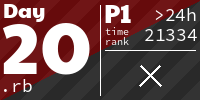
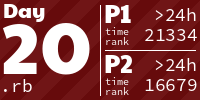
Solve 2020-20 part 2

diff --git a/aoc/y2020/d20.rb b/aoc/y2020/d20.rb
@@ -5,21 +5,79 @@ module AoC
   module Y2020
     class D20 < Solution
 
+      #  01234567890123456789
+      # "                  # "
+      # "#    ##    ##    ###"
+      # " #  #  #  #  #  #   "
+      MONSTER = [
+        Vector[19, 1], # put the two possibly out-of-bounds locations first
+        Vector[16, 2],
+        Vector[18, 0],
+        Vector[0, 1],
+        Vector[5, 1],
+        Vector[6, 1],
+        Vector[11, 1],
+        Vector[12, 1],
+        Vector[17, 1],
+        Vector[18, 1],
+        Vector[1, 2],
+        Vector[4, 2],
+        Vector[7, 2],
+        Vector[10, 2],
+        Vector[13, 2],
+      ].freeze
+
       def part1
         input = get_input
         edges = parse_edges(input)
-        corner_pieces = find_corners(input)
+        corner_pieces = find_corners(edges)
         corner_pieces.uniq.inject(&:*)
       end
 
       def part2
         input = get_input
         edges = parse_edges(input)
-        top_left = find_corners(edges).first # assign any corner as top left
+        top_left_id = find_corners(edges).first # assign any corner as top left
+        top_left = input[top_left_id]
+        top_left = top_left.flip_vertical
+
+        # rotate the top left corner until its unconnected edges are at the top left
+        top = correct_edge(top_left.row(0))
+        top_unconnected = edges[top].size < 2
+        left = correct_edge(top_left.column(0))
+        left_unconnected = edges[left].size < 2
+        top_left = if top_unconnected && left_unconnected
+          top_left
+        elsif top_unconnected
+          top_left.rot90_ccw
+        elsif left_unconnected
+          top_left.rot90_cw
+        else
+          top_left.rot180
+        end
+
+        picture = Grid2d.new(fill_picture(top_left, top_left_id, input, edges))
+        puts picture.map(&:join).join("\n") if @grid_test
+
+        monster_tiles = MONSTER.size * begin
+          r = monster_count(picture)
+          r = monster_count(picture.rot90_cw) if r == 0
+          r = monster_count(picture.rot180) if r == 0
+          r = monster_count(picture.rot90_ccw) if r == 0
+          picture = picture.flip_horizontal if r == 0
+          r = monster_count(picture) if r == 0
+          r = monster_count(picture.rot90_cw) if r == 0
+          r = monster_count(picture.rot180) if r == 0
+          r = monster_count(picture.rot90_ccw) if r == 0
+          r
+        end
+
+        picture.grid.flatten.count('#') - monster_tiles
       end
 
       def initialize(test: false, test_input: nil)
         @test = test
+        @grid_test = false
         @test_input = test_input
       end
 
@@ -29,12 +87,8 @@ module AoC
         super.split("\n\n").to_h do |tile|
           lines = tile.split("\n")
           tileno = lines[0].ints[0]
-          matrix = lines[1..].map do |line|
-            line.chars.map do |char|
-              char == '#' ? 1 : 0
-            end
-          end
-          [tileno, Matrix[*matrix]]
+          matrix = Grid2d.new(lines[1..].map(&:chars))
+          [tileno, matrix]
         end
       end
 
@@ -42,7 +96,8 @@ module AoC
         edges = {}
 
         input.each do |tileno, tile|
-          [tile.row(0), tile.column(0), tile.row(tile.row_count - 1), tile.column(tile.column_count - 1)].each_with_index do |edge, index|
+          # top, left, bottom, right
+          [tile.row(0), tile.column(0), tile.row(tile.height - 1), tile.column(tile.width - 1)].each_with_index do |edge, index|
             edge = edge.to_a
             if (edge <=> edge.reverse) == -1
               edge = edge.reverse
@@ -63,6 +118,104 @@ module AoC
         end.compact.flatten
 
         edge_pieces.filter { |p| edge_pieces.count(p) > 1 }
+      end
+
+      def fill_picture(top_left, top_left_id, tiles, edges)
+        picture = fill_picture_row(top_left, top_left_id, tiles, edges)
+
+        bottom_id = top_left_id
+        bottom_edge = top_left.row(top_left.height - 1)
+        c_bottom_edge = correct_edge(bottom_edge)
+        next_tile_id, next_rotation = edges[c_bottom_edge].filter do |tile, orientation|
+          tile != bottom_id
+        end.first
+
+        while next_tile_id
+          next_tile = tiles[next_tile_id]
+
+          next_tile = case next_rotation.abs
+          when 0 # top
+            next_tile
+          when 1 # left
+            next_tile.rot90_cw
+          when 2 # bottom
+            next_tile.rot180
+          when 3 # right
+            next_tile.rot90_ccw
+          end
+
+          next_tile = next_tile.flip_horizontal if next_tile.row(0) != bottom_edge
+          raise unless next_tile.row(0) == bottom_edge
+
+          picture_row = fill_picture_row(next_tile, next_tile_id, tiles, edges)
+          picture << [] if @grid_test
+          picture.append(*picture_row)
+
+          bottom_id = next_tile_id
+          bottom_edge = next_tile.row(next_tile.height - 1)
+          c_bottom_edge = correct_edge(bottom_edge)
+          next_tile_id, next_rotation = edges[c_bottom_edge].filter do |tile, orientation|
+            tile != bottom_id
+          end.first
+        end
+
+        picture
+      end
+
+
+      def fill_picture_row(left_tile, left_tile_id, tiles, edges)
+        picture = left_tile[1...-1].map { _1[1...-1] }
+
+        right_id = left_tile_id
+        right_edge = left_tile.column(left_tile.width - 1)
+        c_right_edge = correct_edge(right_edge)
+        next_tile_id, next_rotation = edges[c_right_edge].filter do |tile, orientation|
+          tile != right_id
+        end.first
+
+        while next_tile_id
+          next_tile = tiles[next_tile_id]
+
+          next_tile = case next_rotation.abs
+          when 0 # top
+            next_tile.rot90_ccw
+          when 1 # left
+            next_tile
+          when 2 # bottom
+            next_tile.rot90_cw
+          when 3 # right
+            next_tile.rot180
+          end
+
+          next_tile = next_tile.flip_vertical if next_tile.column(0) != right_edge
+          raise unless next_tile.column(0) == right_edge
+
+          picture.zip(next_tile[1...-1]).each do |picture_row, tile_row|
+            picture_row << ' ' if @grid_test
+            picture_row.append(*tile_row[1...-1])
+          end
+
+          right_id = next_tile_id
+          right_edge = next_tile.column(next_tile.width - 1)
+          c_right_edge = correct_edge(right_edge)
+          next_tile_id, next_rotation = edges[c_right_edge].filter do |tile, orientation|
+            tile != right_id
+          end.first
+        end
+
+        picture
+      end
+
+      memoize def correct_edge(edge)
+        (edge <=> edge.reverse) == -1 ? edge.reverse : edge
+      end
+
+      def monster_count(picture)
+        picture.with_coords.count do |_item, coord|
+          MONSTER.all? do |monster|
+            picture.at(coord + monster) == '#'
+          end
+        end
       end
 
       def get_test_input(number)

diff --git a/README.md b/README.md
@@ -4,7 +4,7 @@ I'm Niklas, a rubyist, and I solve Advent of Code each december. Here are my sol
 
 <!-- AOC TILES BEGIN -->
 <h1 align="center">
-  Advent of Code - 201/462 ⭐
+  Advent of Code - 202/462 ⭐
 </h1>
 <h1 align="center">
   2024 - 12 ⭐ - Ruby
@@ -262,7 +262,7 @@ I'm Niklas, a rubyist, and I solve Advent of Code each december. Here are my sol
   <img src=".aoc_tiles/tiles/2021/25.png" width="161px">
 </a>
 <h1 align="center">
-  2020 - 39 ⭐ - Ruby
+  2020 - 40 ⭐ - Ruby
 </h1>
 <a href="aoc/y2020/d01.rb">
   <img src=".aoc_tiles/tiles/2020/01.png" width="161px">
